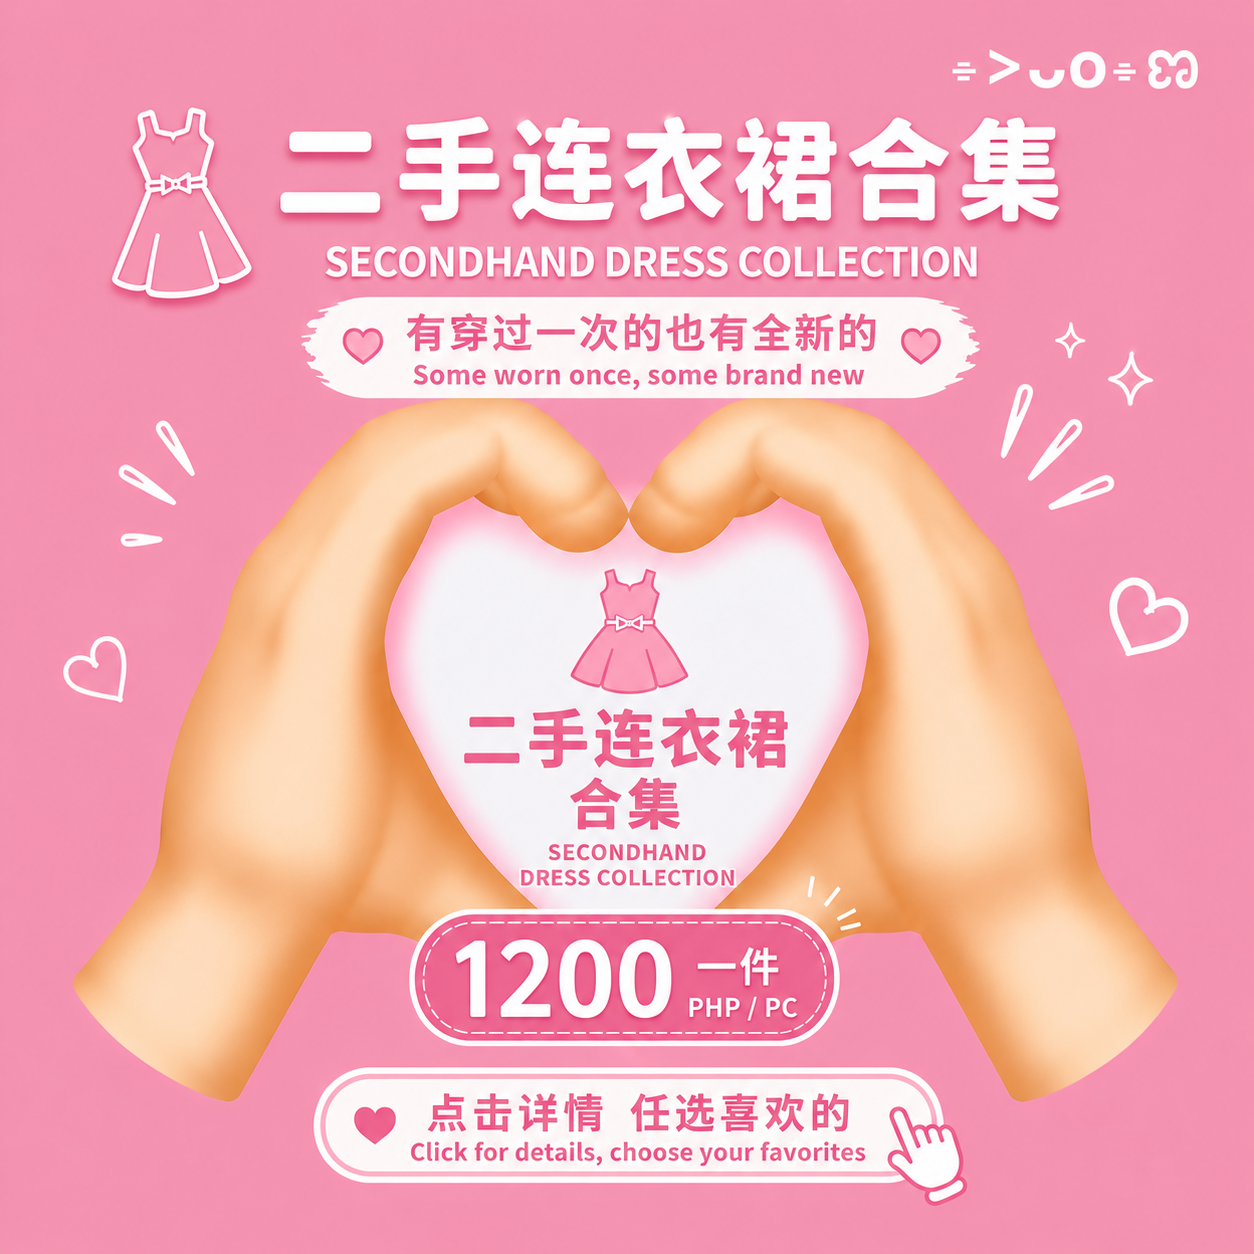
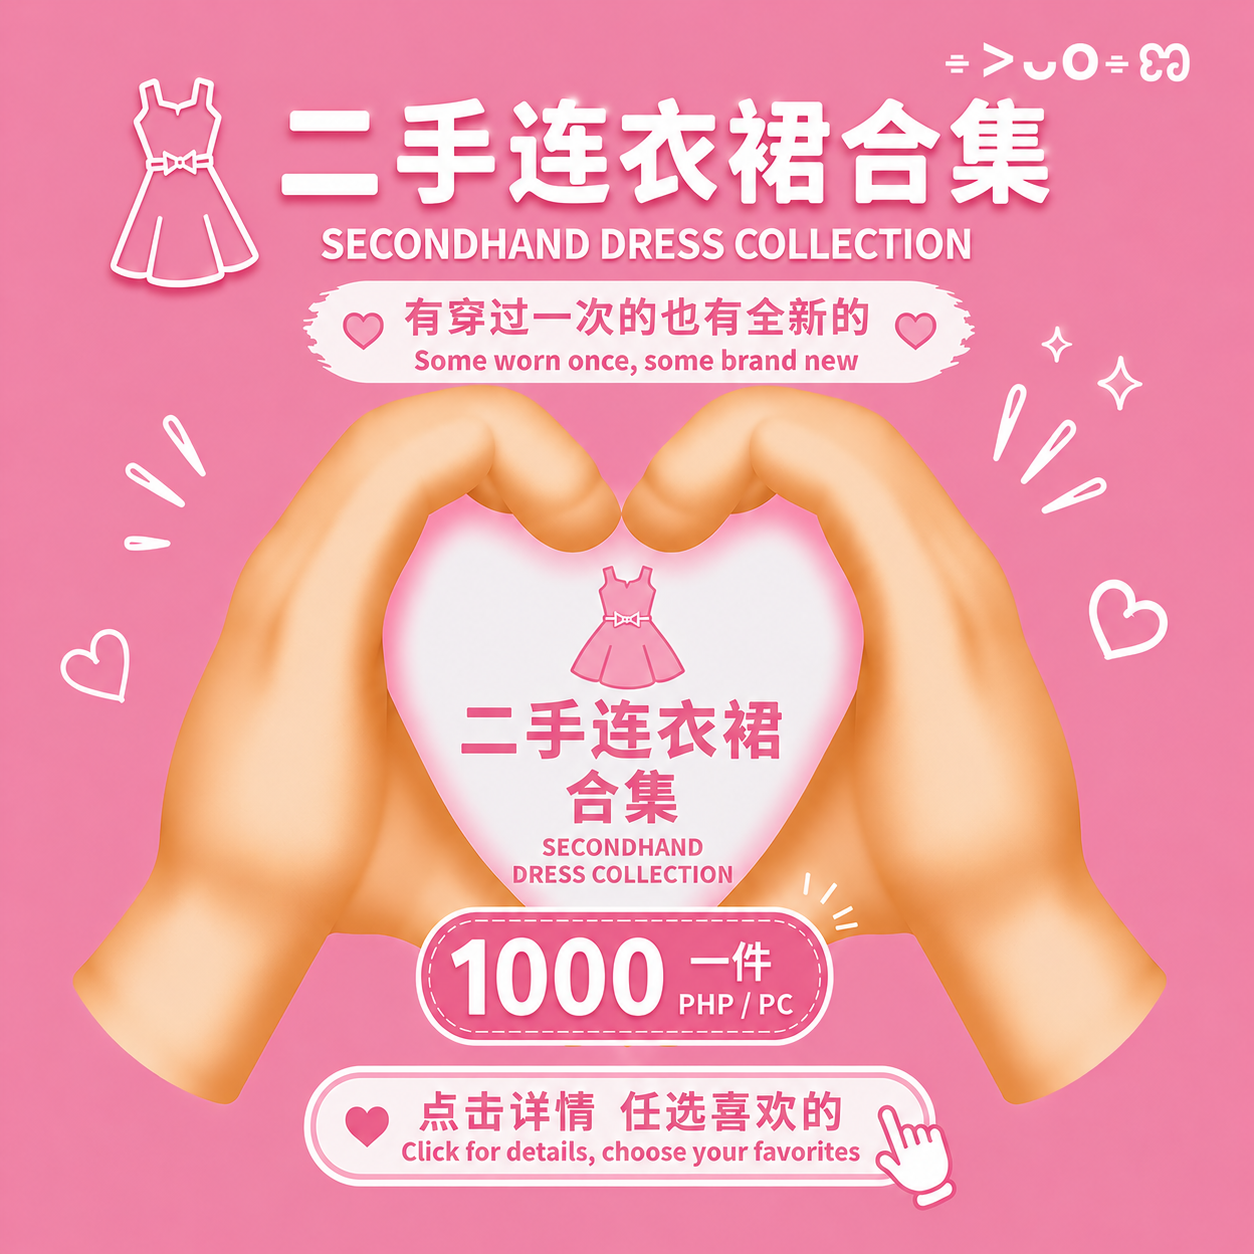
Update dress collection prices and covers

diff --git a/script.js b/script.js
@@ -1293,7 +1293,7 @@ const products = [
   category: "clothing",
   categoryLabel: "Clothing 衣服",
 
-  price: 800,
+  price: 500,
 
   condition: "Very Good / 基本只穿一次或全新",
 
@@ -1301,9 +1301,9 @@ const products = [
   statusLabel: "Available / 可售",
 
   tag: "Collection",
-  shortNote: "₱800 each, choose from the dress listings / ₱800一件，点详情任选喜欢的",
+  shortNote: "₱500 each, choose from the dress listings / ₱500一件，点详情任选喜欢的",
   sellerNote:
-    "Secondhand dress collection, ₱800 each. Some were worn once, some are brand new. Slight negotiation is okay. Please do not purchase if you mind secondhand items. / 二手连衣裙合集，₱800一件。基本只穿了一次或者全新，可小刀，介意的小宝勿拍哦！！",
+    "Secondhand dress collection, ₱500 each. Some were worn once, some are brand new. Slight negotiation is okay. Please do not purchase if you mind secondhand items. / 二手连衣裙合集，₱500一件。基本只穿了一次或者全新，可小刀，介意的小宝勿拍哦！！",
 
   images: [
     "image/61-secondhand-dress-collection-cover.png",
@@ -1330,13 +1330,13 @@ const products = [
 },
 {
   id: 74,
-  nameEn: "Secondhand Dress Collection 1200",
-  nameZh: "二手连衣裙合集 1200",
+  nameEn: "Secondhand Dress Collection 1000",
+  nameZh: "二手连衣裙合集 1000",
 
   category: "clothing",
   categoryLabel: "Clothing 衣服",
 
-  price: 1200,
+  price: 1000,
 
   condition: "Very Good / 基本只穿一次或全新",
 
@@ -1344,15 +1344,14 @@ const products = [
   statusLabel: "Available / 可售",
 
   tag: "Collection",
-  shortNote: "₱1,200 each, choose from the detail photos / ₱1,200一件，点详情任选喜欢的",
+  shortNote: "₱1,000 each, choose from the detail photos / ₱1,000一件，点详情任选喜欢的",
   sellerNote:
-    "Secondhand dress collection, ₱1,200 each. Some were worn once, some are brand new. Slight negotiation is okay. Please do not purchase if you mind secondhand items. / 二手连衣裙合集，₱1,200一件。基本只穿了一次或者全新，可小刀，介意的小宝勿拍哦！！",
+    "Secondhand dress collection, ₱1,000 each. Some were worn once, some are brand new. Slight negotiation is okay. Please do not purchase if you mind secondhand items. / 二手连衣裙合集，₱1,000一件。基本只穿了一次或者全新，可小刀，介意的小宝勿拍哦！！",
 
   images: [
     "image/74-secondhand-dress-collection-1200-cover.png",
     "image/74-white-ruffle-shorts-set-main.jpg",
     "image/74-white-ruffle-shorts-set-alt.jpg",
-    "image/74-white-one-shoulder-wide-leg-set.jpg",
     "image/74-off-shoulder-printed-maxi-dress-main.jpg",
     "image/74-off-shoulder-printed-maxi-dress-alt1.jpg",
     "image/74-off-shoulder-printed-maxi-dress-alt2.jpg",